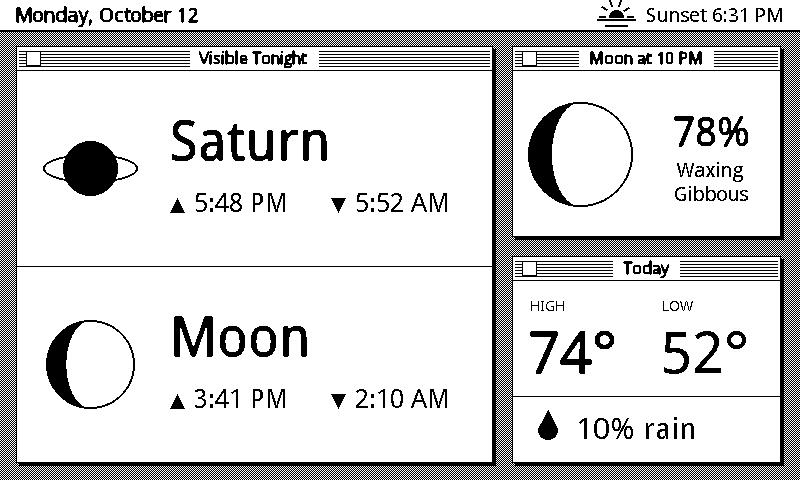
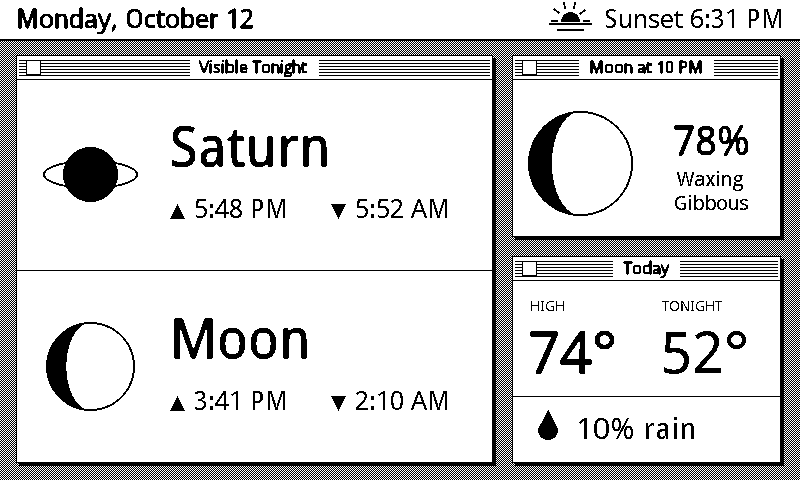
increase menu size and change low temp to tonight temp

diff --git a/desktop.py b/desktop.py
@@ -11,7 +11,8 @@ HEIGHT = 480
 white = 255
 black = 0
 
-menu_bar_height = 30
+menu_bar_height = 39
+menu_bar_font_size = 26
 title_bar_height = 24
 
 fonts = {}
@@ -148,11 +149,11 @@ def draw_menu_bar(draw, data):
    middle_y = menu_bar_height // 2
 
    date_text = '{} {}'.format(data['date'].strftime('%A, %B'), data['date'].day)
-   draw_text(draw, (16, middle_y), date_text, 20, anchor='lm', bold=True)
+   draw_text(draw, (16, middle_y), date_text, menu_bar_font_size, anchor='lm', bold=True)
 
    sunset_text = 'Sunset {}'.format(format_time(data['sunset']))
-   draw_text(draw, (WIDTH - 16, middle_y), sunset_text, 20, anchor='rm')
-   draw_sunset_icon(draw, WIDTH - 16 - draw.textlength(sunset_text, font=get_font(20)) - 30, middle_y + 2, 7)
+   draw_text(draw, (WIDTH - 16, middle_y), sunset_text, menu_bar_font_size, anchor='rm')
+   draw_sunset_icon(draw, WIDTH - 16 - draw.textlength(sunset_text, font=get_font(menu_bar_font_size)) - 34, middle_y + 2, 9)
 
 def draw_window(draw, box, title):
    # box is (left x, top y, right x, bottom y), returns the y of the bottom of the title bar
@@ -262,15 +263,15 @@ def draw_weather_window(draw, box, data):
    (left, top, right, bottom) = box
    content_top = draw_window(draw, box, 'Today')
    high = format_value(data['high'], '°')
-   low = format_value(data['low'], '°')
+   tonight_low = format_value(data['tonight_low'], '°')
    # 3 digit / negative temps need a smaller font to fit side by side
-   temp_size = 58 if max(len(high), len(low)) <= 3 else 44
-   low_x = left + 148
+   temp_size = 58 if max(len(high), len(tonight_low)) <= 3 else 44
+   tonight_x = left + 148
 
    draw_text(draw, (left + 18, content_top + 26), 'HIGH', 14, anchor='lm')
-   draw_text(draw, (low_x + 2, content_top + 26), 'LOW', 14, anchor='lm')
+   draw_text(draw, (tonight_x + 2, content_top + 26), 'TONIGHT', 14, anchor='lm')
    draw_text(draw, (left + 16, content_top + 72), high, temp_size, anchor='lm', bold=True)
-   draw_text(draw, (low_x, content_top + 72), low, temp_size, anchor='lm')
+   draw_text(draw, (tonight_x, content_top + 72), tonight_low, temp_size, anchor='lm')
 
    draw.line((left + 1, content_top + 116, right - 1, content_top + 116), fill=black)
    draw_raindrop(draw, left + 36, content_top + 144, 14)
@@ -282,7 +283,7 @@ def render_desktop(data):
    data = {
       'date': date or datetime,
       'sunset': datetime (or None),
-      'high': degrees F, 'low': degrees F, 'rain': percent (any can be None),
+      'high': degrees F, 'tonight_low': overnight low in degrees F, 'rain': percent (any can be None),
       'moon_degrees': skyfield moon phase angle at 10pm,
       'bodies': [{'name': 'Saturn', 'rise': datetime, 'set': datetime}, ...]
    }
@@ -291,8 +292,8 @@ def render_desktop(data):
    draw = ImageDraw.Draw(image)
 
    draw_menu_bar(draw, data)
-   draw_bodies_window(draw, (16, 46, 492, 462), data)
-   draw_moon_window(draw, (512, 46, 780, 236), data)
+   draw_bodies_window(draw, (16, 55, 492, 462), data)
+   draw_moon_window(draw, (512, 55, 780, 236), data)
    draw_weather_window(draw, (512, 256, 780, 462), data)
 
    return image

diff --git a/planets.py b/planets.py
@@ -200,21 +200,30 @@ def get_values_for_today(forecast_values):
          values.append(forecast['value'])
    return values
 
+def get_tonight_lows(min_temperature_values):
+   # the overnight low is the forecast period that runs through midnight tonight (e.g. 8pm -> 10am)
+   values = []
+   for forecast in min_temperature_values:
+      start, end = parse_valid_time(forecast['validTime'])
+      if start <= midnight_tomorrow < end and forecast['value'] is not None:
+         values.append(forecast['value'])
+   return values
+
 def celsius_to_fahrenheit(celsius):
    return celsius * 9 / 5 + 32
 
 def get_weather_today():
-   # high / low in fahrenheit and chance of rain in percent, None for anything missing from the forecast
+   # high / tonight's low in fahrenheit and chance of rain in percent, None for anything missing from the forecast
    weather_page = requests.get('https://api.weather.gov/gridpoints/LOX/77,115')
    properties = json.loads(weather_page.text)['properties']
 
    highs = get_values_for_today(properties['maxTemperature']['values'])
-   lows = get_values_for_today(properties['minTemperature']['values'])
+   tonight_lows = get_tonight_lows(properties['minTemperature']['values'])
    rain_chances = get_values_for_today(properties['probabilityOfPrecipitation']['values'])
 
    return {
       'high': round(celsius_to_fahrenheit(max(highs))) if highs else None,
-      'low': round(celsius_to_fahrenheit(min(lows))) if lows else None,
+      'tonight_low': round(celsius_to_fahrenheit(tonight_lows[0])) if tonight_lows else None,
       'rain': round(max(rain_chances)) if rain_chances else None
    }
 

diff --git a/test_desktop_screenshots.py b/test_desktop_screenshots.py
@@ -32,7 +32,7 @@ def scenario(bodies, **overrides):
       'date': today,
       'sunset': at(18, 31),
       'high': 74,
-      'low': 52,
+      'tonight_low': 52,
       'rain': 10,
       'moon_degrees': 124, # waxing gibbous
       'bodies': [all_bodies[name] for name in bodies],
@@ -50,11 +50,11 @@ scenarios = {
    'nothing_visible': scenario([]),
    'new_moon': scenario(['Saturn', 'Jupiter', 'Mars'], moon_degrees=2),
    'first_quarter': scenario(['Saturn', 'Moon'], moon_degrees=90),
-   'full_moon_rainy': scenario(['Moon', 'Saturn'], moon_degrees=180, high=58, low=47, rain=100),
+   'full_moon_rainy': scenario(['Moon', 'Saturn'], moon_degrees=180, high=58, tonight_low=47, rain=100),
    'waning_crescent': scenario(['Saturn', 'Mars', 'Jupiter', 'Uranus'], moon_degrees=315),
-   'heat_wave': scenario(['Venus', 'Saturn', 'Mars'], high=108, low=71, rain=0),
-   'freezing': scenario(['Saturn', 'Jupiter'], high=28, low=-4, rain=35),
-   'weather_unavailable': scenario(['Saturn', 'Moon'], high=None, low=None, rain=None),
+   'heat_wave': scenario(['Venus', 'Saturn', 'Mars'], high=108, tonight_low=71, rain=0),
+   'freezing': scenario(['Saturn', 'Jupiter'], high=28, tonight_low=-4, rain=35),
+   'weather_unavailable': scenario(['Saturn', 'Moon'], high=None, tonight_low=None, rain=None),
    'long_date_late_sunset': scenario(['Venus', 'Mars'], date=dt.datetime(2026, 9, 30), sunset=dt.datetime(2026, 9, 30, 20, 22)),
 }
 

diff --git a/run_desktop.py b/run_desktop.py
@@ -13,7 +13,7 @@ def get_weather():
    except Exception:
       # still worth showing the sky if the forecast is down
       logging.exception('could not load weather')
-      return {'high': None, 'low': None, 'rain': None}
+      return {'high': None, 'tonight_low': None, 'rain': None}
 
 def get_desktop_data():
    weather = get_weather()
@@ -23,7 +23,7 @@ def get_desktop_data():
       'date': now,
       'sunset': get_sunset(),
       'high': weather['high'],
-      'low': weather['low'],
+      'tonight_low': weather['tonight_low'],
       'rain': weather['rain'],
       'moon_degrees': get_moon_phase_tonight(),
       'bodies': [
